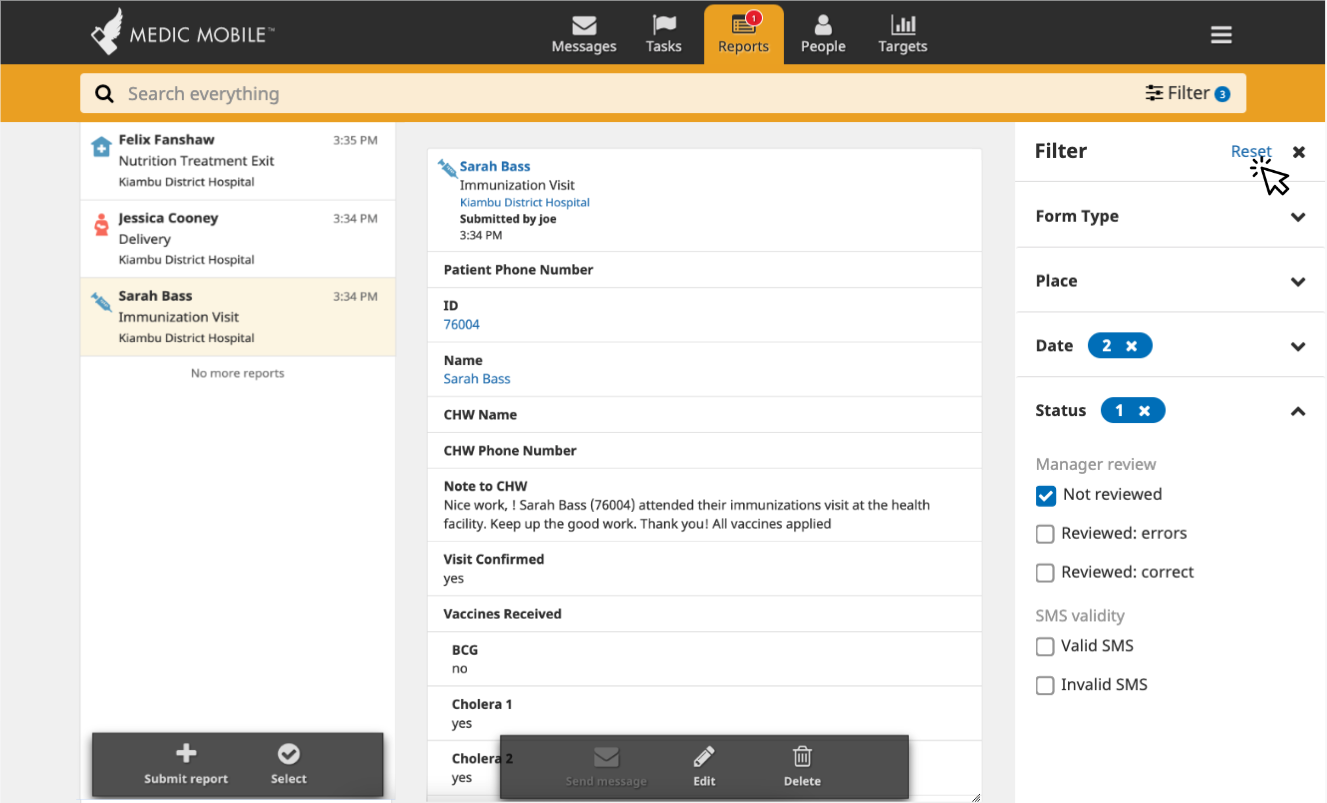
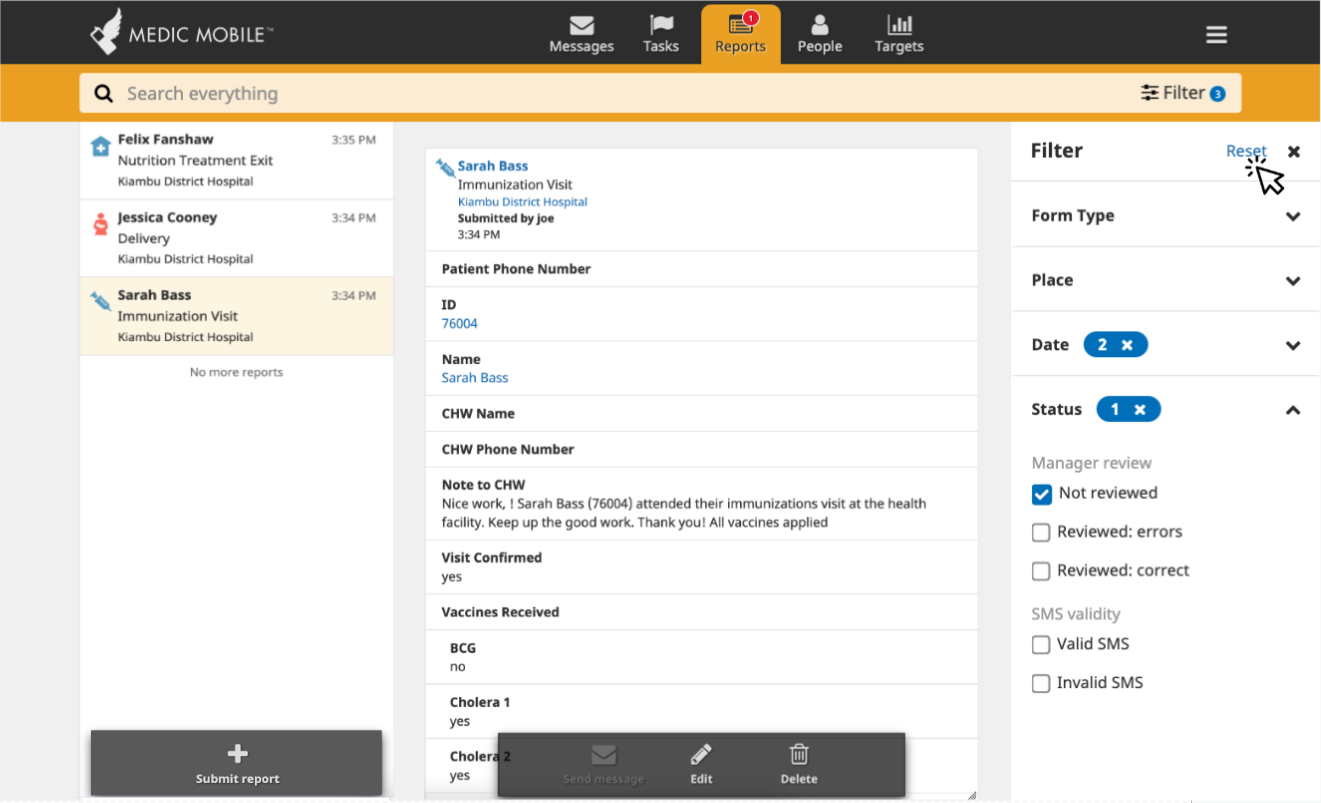
deploy: medic/cht-docs@d5cd6b67b7d5a14a046c0b3d362392b66ff2e4c5

diff --git a/apps/features/reports/index.html b/apps/features/reports/index.html
@@ -225,8 +225,8 @@
 <label for=m-contributedocsstyle-guide-check><a href=/contribute/docs/style-guide/ title="Documentation Style Guide" class="align-left pl-0 td-sidebar-link td-sidebar-link__page" id=m-contributedocsstyle-guide><span>Style Guide</span></a></label></li></ul></li><li class="td-sidebar-nav__section-title td-sidebar-nav__section without-child" id=m-contributecode-of-conduct-li><input type=checkbox id=m-contributecode-of-conduct-check>
 <label for=m-contributecode-of-conduct-check><a href=/contribute/code-of-conduct/ class="align-left pl-0 td-sidebar-link td-sidebar-link__page" id=m-contributecode-of-conduct><span>Code of Conduct</span></a></label></li></ul></li><li class="td-sidebar-nav__section-title td-sidebar-nav__section without-child" id=m-glossary-li><input type=checkbox id=m-glossary-check>
 <label for=m-glossary-check><a href=/glossary/ title="Glossary and Definitions" class="align-left pl-0 td-sidebar-link td-sidebar-link__page" id=m-glossary><span>Glossary</span></a></label></li></ul></li></ul></nav></div></aside><aside class="d-none d-xl-block col-xl-2 td-sidebar-toc d-print-none"><div class="td-page-meta ml-2 pb-1 pt-2 mb-0"><a href=https://github.com/medic/cht-docs/edit/main/content/en/apps/features/reports/_index.md class=td-page-meta--edit target=_blank rel=noopener><i class="fa fa-edit fa-fw"></i> Edit this page</a>
-<a href="https://github.com/medic/cht-docs/issues/new?title=Improve+%27Reports%27&labels=enhancement&body=Page:+/apps/features/reports/%0aVersion:+2022-09-15%2009:07:15%20+0700%20+0700%0a---" class=td-page-meta--issue target=_blank rel=noopener><i class="fab fa-github fa-fw"></i> Create documentation issue</a>
-<a href=https://github.com/medic/cht-core/issues/new class=td-page-meta--project-issue target=_blank rel=noopener><i class="fas fa-tasks fa-fw"></i> Create project issue</a></div><div class=td-toc><nav id=TableOfContents><ul><li><a href=#main-list>Main List</a></li><li><a href=#filters--search>Filters & Search</a></li><li><a href=#action-buttons>Action Buttons</a></li><li><a href=#detail-pages>Detail Pages</a></li><li><a href=#defining-forms>Defining Forms</a></li></ul></nav></div></aside><main class="col-12 col-md-9 col-xl-8 pl-md-5" role=main><nav aria-label=breadcrumb class=td-breadcrumbs><ol class=breadcrumb><li class=breadcrumb-item><a href=https://docs.communityhealthtoolkit.org/apps/>CHT Applications</a></li><li class=breadcrumb-item><a href=https://docs.communityhealthtoolkit.org/apps/features/>Features</a></li><li class="breadcrumb-item active" aria-current=page><a href=https://docs.communityhealthtoolkit.org/apps/features/reports/ aria-disabled=true class="btn-link disabled">Reports</a></li></ol></nav><div class=td-content><h1>Reports</h1><div class=lead>Reports for Data & Report Management</div><header class=article-meta></header><p>The Reports tab is where you can access submitted data. Depending on how often you anticipate a user needing to access this tab, you can configure it to show in the main tabs list (preferable for admin users) or in the secondary hamburger menu (preferable for CHW users).</p><p>The permissions set for your role and your placement in the hierarchy will determine which reports you’re able to see on this tab. As a rule, you can only view reports submitted by yourself or those below you in the <a href=https://docs.communityhealthtoolkit.org/apps/concepts/hierarchy/>hierarchy</a>. Therefore, CHWs will only see reports that they submitted on this tab, while supervisors will see reports that they submitted as well as those submitted by their CHWs. Advanced configuration options are available for a specific off-line user role to manage what <a href=https://docs.communityhealthtoolkit.org/apps/guides/performance/replication/#report-depth>level of report data</a> is copied to their device.</p><figure class="left col-3 col-lg-3"><a href=reports-mobile.png><img src=/apps/features/reports/reports-mobile.png></a></figure><figure class="left col-9 col-lg-9"><a href=reports-desktop.png><img src=/apps/features/reports/reports-desktop.png></a></figure><h2 id=main-list>Main List</h2><figure class="right col-6 col-lg-3"><a href=reports-mobile.png><img src=/apps/features/reports/reports-mobile.png></a></figure><p>The first line of bold text is the name of the person whom the report is about. The second line of text is the name of the report, and the third line of text is the hierarchy of place to which that person belongs. In the upper right corner, a timestamp displays when the report was submitted. Reports are sorted by submission date, with the most recent reports at the top. If a report is unread, the timestamp will be bold blue and there will be a horizontal blue line above it.</p><p>Apps built with the Core Framework have a “review” feature that allows managers to indicate whether a report has been reviewed and if it contains errors. If a manager has marked a report as “correct,” a green checkmark will show below the timestamp. If a report is marked as “has errors,” a red ‘X’ will show. This same icon is used for invalid SMS messages.</p><br clear=all><h2 id=filters--search>Filters & Search</h2><p>The toolbar at the top of the page includes filters and search to help users narrow down the list or search for and find a specific report. These filters are configurable and could include:</p><ul><li><strong>Report Types</strong> (e.g. pregnancy registration, visits, delivery report)</li><li><strong>Places</strong> (e.g. districts, health centers or CHW areas)</li><li><strong>Date of Submission</strong></li><li><strong>Status</strong> (e.g. not reviewed, has errors, correct, valid SMS, invalid SMS)</li></ul><p>Using the search box, you can search for reports by patient name, phone number, ID number and more. To reset the filters and view the full list of forms, click on &ldquo;Reset&rdquo; located in the filter sidebar.</p><figure class="left col-3 col-lg-3"><a href=reports-search.png><img src=/apps/features/reports/reports-search.png></a></figure><figure class="left col-9 col-lg-9"><a href=reports-search-reset.png><img src=/apps/features/reports/reports-search-reset.png></a></figure><br clear=all><div class="alert alert-primary" role=alert><h4 class=alert-heading>Note</h4>A new user experience for Filter and Search was introduced in v3.17. The previous version can be re-enabled for users by adding the <a href=https://docs.communityhealthtoolkit.org/apps/reference/app-settings/user-permissions/>permission</a> <code>can_view_old_filter_and_search</code> to the user’s role; however, the old version should be considered deprecated and will be completely removed in a future release. See <a href=https://docs.communityhealthtoolkit.org/apps/guides/updates/feature-flags/>Feature Flags</a> documentation for more info</div><br clear=all><h2 id=action-buttons>Action Buttons</h2><figure class="right col-6 col-lg-3"><a href=reports-bulk.png><img src=/apps/features/reports/reports-bulk.png></a></figure><p>The action buttons at the bottom of the screen are configurable. Options include adding or completing a care guide, bulk select & export.</p><p>Clicking the “+” button opens a menu of forms a user can choose to complete. “Bulk Select,” represented by a checkmark icon within a circle, allows you to bulk select and delete multiple reports at a time.</p><p><strong>Please Note</strong>: Bulk delete cannot be undone. If in doubt, do not delete! You can restrict a user’s access to this feature in the permissions for their role.</p><p>Clicking on the “Export” button will download a CSV file with all of the data from the reports.</p><br clear=all><h2 id=detail-pages>Detail Pages</h2><figure class="right col-6 col-lg-3"><a href=reports-detail.png><img src=/apps/features/reports/reports-detail.png></a></figure><p>You can click on any report to view a report detail page. Here you&rsquo;ll find the name and phone number of the user who submitted the report as well as responses to the questions within it. If the report initiated a schedule of SMS messages, you will see the messages queued to send.</p><p>The buttons at the bottom are configurable. The ones you see will depend on your user role, permissions, and hierarchy.</p><ul><li><strong>Send a Message</strong>: Opens the Messages page to send a message to the person who submitted the report</li><li><strong>Review</strong>: Mark as “correct” or “has errors”</li><li><strong>Edit</strong>: Opens the form to edit it</li><li><strong>Delete</strong>: Deletes a report ( cannot be undone)</li></ul><br clear=all><h2 id=defining-forms>Defining Forms</h2><p>The reports shown in your app are the completed and submitted <em>forms</em>. These forms must be defined and included with the application. There are two types of form definitions for reports:</p><ul><li><strong>App forms</strong>: actions within the app, such as a completed task, or an action on a contact&rsquo;s profile or reports tab. App forms are defined as <a href=https://docs.communityhealthtoolkit.org/apps/reference/forms/app/>XForms</a>.</li><li><strong>JSON forms</strong>: data coming from external channels such as SMS, or via interoperability with other tools. JSON forms are defined using a <a href=https://docs.communityhealthtoolkit.org/apps/reference/app-settings/forms/>JavaScript Object Notation schema</a>.</li></ul><div class=section-index></div><h2 id=related-content>Related Content</h2><div class=section-index><hr class=panel-line><div class=entry><h5><a href=/apps/reference/app-settings/patient_reports/>CHT Applications >
+<a href="https://github.com/medic/cht-docs/issues/new?title=Improve+%27Reports%27&labels=enhancement&body=Page:+/apps/features/reports/%0aVersion:+2022-12-02%2013:52:01%20+0700%20+0700%0a---" class=td-page-meta--issue target=_blank rel=noopener><i class="fab fa-github fa-fw"></i> Create documentation issue</a>
+<a href=https://github.com/medic/cht-core/issues/new class=td-page-meta--project-issue target=_blank rel=noopener><i class="fas fa-tasks fa-fw"></i> Create project issue</a></div><div class=td-toc><nav id=TableOfContents><ul><li><a href=#main-list>Main List</a></li><li><a href=#filters--search>Filters & Search</a></li><li><a href=#action-buttons>Action Buttons</a></li><li><a href=#bulk-delete-reports>Bulk Delete Reports</a></li><li><a href=#detail-pages>Detail Pages</a></li><li><a href=#defining-forms>Defining Forms</a></li></ul></nav></div></aside><main class="col-12 col-md-9 col-xl-8 pl-md-5" role=main><nav aria-label=breadcrumb class=td-breadcrumbs><ol class=breadcrumb><li class=breadcrumb-item><a href=https://docs.communityhealthtoolkit.org/apps/>CHT Applications</a></li><li class=breadcrumb-item><a href=https://docs.communityhealthtoolkit.org/apps/features/>Features</a></li><li class="breadcrumb-item active" aria-current=page><a href=https://docs.communityhealthtoolkit.org/apps/features/reports/ aria-disabled=true class="btn-link disabled">Reports</a></li></ol></nav><div class=td-content><h1>Reports</h1><div class=lead>Reports for Data & Report Management</div><header class=article-meta></header><p>The Reports tab is where you can access submitted data. Depending on how often you anticipate a user needing to access this tab, you can configure it to show in the main tabs list (preferable for admin users) or in the secondary hamburger menu (preferable for CHW users).</p><p>The permissions set for your role and your placement in the hierarchy will determine which reports you’re able to see on this tab. As a rule, you can only view reports submitted by yourself or those below you in the <a href=https://docs.communityhealthtoolkit.org/apps/concepts/hierarchy/>hierarchy</a>. Therefore, CHWs will only see reports that they submitted on this tab, while supervisors will see reports that they submitted as well as those submitted by their CHWs. Advanced configuration options are available for a specific off-line user role to manage what <a href=https://docs.communityhealthtoolkit.org/apps/guides/performance/replication/#report-depth>level of report data</a> is copied to their device.</p><figure class="left col-3 col-lg-3"><a href=reports-mobile.png><img src=/apps/features/reports/reports-mobile.png></a></figure><figure class="left col-9 col-lg-9"><a href=reports-desktop.png><img src=/apps/features/reports/reports-desktop.png></a></figure><h2 id=main-list>Main List</h2><figure class="right col-6 col-lg-3"><a href=reports-mobile.png><img src=/apps/features/reports/reports-mobile.png></a></figure><p>The first line of bold text is the name of the person whom the report is about. The second line of text is the name of the report, and the third line of text is the hierarchy of place to which that person belongs. In the upper right corner, a timestamp displays when the report was submitted. Reports are sorted by submission date, with the most recent reports at the top. If a report is unread, the timestamp will be bold blue and there will be a horizontal blue line above it.</p><p>Apps built with the Core Framework have a “review” feature that allows managers to indicate whether a report has been reviewed and if it contains errors. If a manager has marked a report as “correct,” a green checkmark will show below the timestamp. If a report is marked as “has errors,” a red ‘X’ will show. This same icon is used for invalid SMS messages.</p><br clear=all><h2 id=filters--search>Filters & Search</h2><p>The toolbar at the top of the page includes filters and search to help users narrow down the list or search for and find a specific report. These filters are configurable and could include:</p><ul><li><strong>Report Types</strong> (e.g. pregnancy registration, visits, delivery report)</li><li><strong>Places</strong> (e.g. districts, health centers or CHW areas)</li><li><strong>Date of Submission</strong></li><li><strong>Status</strong> (e.g. not reviewed, has errors, correct, valid SMS, invalid SMS)</li></ul><p>Using the search box, you can search for reports by patient name, phone number, ID number and more. To reset the filters and view the full list of forms, click on &ldquo;Reset&rdquo; located in the filter sidebar.</p><figure class="left col-3 col-lg-3"><a href=reports-search.png><img src=/apps/features/reports/reports-search.png></a></figure><figure class="left col-9 col-lg-9"><a href=reports-search-reset.png><img src=/apps/features/reports/reports-search-reset.png></a></figure><br clear=all><div class="alert alert-primary" role=alert><h4 class=alert-heading>Note</h4>A new user experience for Filter and Search was introduced in v3.17. The previous version can be re-enabled for users by adding the <a href=https://docs.communityhealthtoolkit.org/apps/reference/app-settings/user-permissions/>permission</a> <code>can_view_old_filter_and_search</code> to the user’s role; however, the old version should be considered deprecated and will be completely removed in a future release. See <a href=https://docs.communityhealthtoolkit.org/apps/guides/updates/feature-flags/>Feature Flags</a> documentation for more info</div><br clear=all><h2 id=action-buttons>Action Buttons</h2><p>The action buttons at the bottom of the screen are configurable using <a href=https://docs.communityhealthtoolkit.org/apps/reference/app-settings/user-permissions/>permissions</a>. Options include submit, edit, delete, review and export reports.</p><p>Clicking on the “Export” button will download a CSV file with all the data from the reports. And clicking the “+ Submit report” button opens a menu of forms a user can choose to complete.</p><figure class="left col-9 col-lg-9"><a href=reports-bulk.png><img src=/apps/features/reports/reports-desktop.png></a></figure><br clear=all><h2 id=bulk-delete-reports>Bulk Delete Reports</h2><p>Allows the user to select multiple reports and delete them. <strong>Please Note</strong>: This action cannot be undone. If in doubt, do not delete! You can restrict a user’s access to this feature by disabling the <a href=https://docs.communityhealthtoolkit.org/apps/reference/app-settings/user-permissions/>permission</a> <code>can_bulk_delete_reports</code>.</p><figure class="left col-3 col-lg-3"><a href=reports-bulk-mobile.png><img src=/apps/features/reports/reports-bulk-mobile.png></a></figure><figure class="left col-9 col-lg-9"><a href=reports-bulk-desktop.png><img src=/apps/features/reports/reports-bulk-desktop.png></a></figure><br clear=all><h2 id=detail-pages>Detail Pages</h2><figure class="right col-6 col-lg-3"><a href=reports-detail.png><img src=/apps/features/reports/reports-detail.png></a></figure><p>You can click on any report to view a report detail page. Here you&rsquo;ll find the name and phone number of the user who submitted the report as well as responses to the questions within it. If the report initiated a schedule of SMS messages, you will see the messages queued to send.</p><p>The buttons at the bottom are configurable. The ones you see will depend on your user role, permissions, and hierarchy.</p><ul><li><strong>Send a Message</strong>: Opens the Messages page to send a message to the person who submitted the report</li><li><strong>Review</strong>: Mark as “correct” or “has errors”</li><li><strong>Edit</strong>: Opens the form to edit it</li><li><strong>Delete</strong>: Deletes a report ( cannot be undone)</li></ul><br clear=all><h2 id=defining-forms>Defining Forms</h2><p>The reports shown in your app are the completed and submitted <em>forms</em>. These forms must be defined and included with the application. There are two types of form definitions for reports:</p><ul><li><strong>App forms</strong>: actions within the app, such as a completed task, or an action on a contact&rsquo;s profile or reports tab. App forms are defined as <a href=https://docs.communityhealthtoolkit.org/apps/reference/forms/app/>XForms</a>.</li><li><strong>JSON forms</strong>: data coming from external channels such as SMS, or via interoperability with other tools. JSON forms are defined using a <a href=https://docs.communityhealthtoolkit.org/apps/reference/app-settings/forms/>JavaScript Object Notation schema</a>.</li></ul><div class=section-index></div><h2 id=related-content>Related Content</h2><div class=section-index><hr class=panel-line><div class=entry><h5><a href=/apps/reference/app-settings/patient_reports/>CHT Applications >
 Reference >
 app_settings.json >
 .patient_reports</a></h5><p class=one-liner>Patient Reports: Defining SMS workflows with schedules, registration, and patient reports.</p></div><div class=entry><h5><a href=/apps/guides/data/invalid-reports/>CHT Applications >
@@ -236,8 +236,8 @@ Invalid Reports</a></h5><p class=one-liner>How to revalidate an invalid report</
 Quick Guides >
 Forms >
 Report Titles</a></h5><p class=one-liner>Customizing the title shown in the Reports list</p></div></div><style>.feedback--answer{display:inline-block}.feedback--answer-no{margin-left:1em}.feedback--response{display:none;margin-top:1em}.feedback--response__visible{display:block}</style><div class=d-print-none><h2 class=feedback--title>Feedback</h2><p class=feedback--question>Was this page helpful?</p><button class="btn btn-primary mb-4 feedback--answer feedback--answer-yes">Yes</button>
-<button class="btn btn-primary mb-4 feedback--answer feedback--answer-no">No</button><p class="feedback--response feedback--response-yes">Glad to hear it! Please <a href=https://github.com/medic/cht-docs/issues/new>tell us how we can improve</a>.</p><p class="feedback--response feedback--response-no">Sorry to hear that. Please <a href=https://github.com/medic/cht-docs/issues/new>tell us how we can improve</a>.</p></div><script>const yesButton=document.querySelector(".feedback--answer-yes"),noButton=document.querySelector(".feedback--answer-no"),yesResponse=document.querySelector(".feedback--response-yes"),noResponse=document.querySelector(".feedback--response-no"),disableButtons=()=>{yesButton.disabled=!0,noButton.disabled=!0},sendFeedback=e=>{if(typeof ga!="function")return;const t={command:"send",hitType:"event",category:"Helpful",action:"click",label:window.location.pathname,value:e};ga(t.command,t.hitType,t.category,t.action,t.label,t.value)};yesButton.addEventListener("click",()=>{yesResponse.classList.add("feedback--response__visible"),disableButtons(),sendFeedback(1)}),noButton.addEventListener("click",()=>{noResponse.classList.add("feedback--response__visible"),disableButtons(),sendFeedback(0)})</script><br><div class="text-muted mt-5 pt-3 border-top">Last modified 15.09.2022: <a href=https://github.com/medic/cht-docs/commit/f71ac394fae3cb23f1b3ae0ca596a49f0d26e490>7746 - Search bar redesign (#776) (f71ac39)</a></div><div class="d-xl-none d-print-none meta-links"><div class="td-page-meta ml-2 pb-1 pt-2 mb-0"><a href=https://github.com/medic/cht-docs/edit/main/content/en/apps/features/reports/_index.md class=td-page-meta--edit target=_blank rel=noopener><i class="fa fa-edit fa-fw"></i> Edit this page</a>
-<a href="https://github.com/medic/cht-docs/issues/new?title=Improve+%27Reports%27&labels=enhancement&body=Page:+/apps/features/reports/%0aVersion:+2022-09-15%2009:07:15%20+0700%20+0700%0a---" class=td-page-meta--issue target=_blank rel=noopener><i class="fab fa-github fa-fw"></i> Create documentation issue</a>
+<button class="btn btn-primary mb-4 feedback--answer feedback--answer-no">No</button><p class="feedback--response feedback--response-yes">Glad to hear it! Please <a href=https://github.com/medic/cht-docs/issues/new>tell us how we can improve</a>.</p><p class="feedback--response feedback--response-no">Sorry to hear that. Please <a href=https://github.com/medic/cht-docs/issues/new>tell us how we can improve</a>.</p></div><script>const yesButton=document.querySelector(".feedback--answer-yes"),noButton=document.querySelector(".feedback--answer-no"),yesResponse=document.querySelector(".feedback--response-yes"),noResponse=document.querySelector(".feedback--response-no"),disableButtons=()=>{yesButton.disabled=!0,noButton.disabled=!0},sendFeedback=e=>{if(typeof ga!="function")return;const t={command:"send",hitType:"event",category:"Helpful",action:"click",label:window.location.pathname,value:e};ga(t.command,t.hitType,t.category,t.action,t.label,t.value)};yesButton.addEventListener("click",()=>{yesResponse.classList.add("feedback--response__visible"),disableButtons(),sendFeedback(1)}),noButton.addEventListener("click",()=>{noResponse.classList.add("feedback--response__visible"),disableButtons(),sendFeedback(0)})</script><br><div class="text-muted mt-5 pt-3 border-top">Last modified 02.12.2022: <a href=https://github.com/medic/cht-docs/commit/d5cd6b67b7d5a14a046c0b3d362392b66ff2e4c5>Bulk delete redesign (#815) (d5cd6b6)</a></div><div class="d-xl-none d-print-none meta-links"><div class="td-page-meta ml-2 pb-1 pt-2 mb-0"><a href=https://github.com/medic/cht-docs/edit/main/content/en/apps/features/reports/_index.md class=td-page-meta--edit target=_blank rel=noopener><i class="fa fa-edit fa-fw"></i> Edit this page</a>
+<a href="https://github.com/medic/cht-docs/issues/new?title=Improve+%27Reports%27&labels=enhancement&body=Page:+/apps/features/reports/%0aVersion:+2022-12-02%2013:52:01%20+0700%20+0700%0a---" class=td-page-meta--issue target=_blank rel=noopener><i class="fab fa-github fa-fw"></i> Create documentation issue</a>
 <a href=https://github.com/medic/cht-core/issues/new class=td-page-meta--project-issue target=_blank rel=noopener><i class="fas fa-tasks fa-fw"></i> Create project issue</a></div></div></div></main></div></div><footer class="bg-dark py-5 row d-print-none"><div class="container-fluid mx-sm-5"><div class=row><div class="col-6 col-sm-4 text-xs-center order-sm-2"></div><div class="col-6 col-sm-4 text-right text-xs-center order-sm-3"></div><div class="col-12 col-sm-4 text-center py-2 order-sm-2"><small class=text-white>&copy; 2022 CHT All Rights Reserved</small>
 <small class=ml-1><a href="https://docs.google.com/document/d/1MaI1rgYMNyCZF2eEjBuvnBDoCYHDKlx4k_N5pkDiWu8/edit?usp=sharing" target=_blank rel=noopener>Privacy Policy</a></small></div></div></div></footer></div><script src=https://cdn.jsdelivr.net/npm/popper.js@1.16.1/dist/umd/popper.min.js integrity=sha384-9/reFTGAW83EW2RDu2S0VKaIzap3H66lZH81PoYlFhbGU+6BZp6G7niu735Sk7lN crossorigin=anonymous></script>
 <script src=https://cdn.jsdelivr.net/npm/bootstrap@4.6.1/dist/js/bootstrap.min.js integrity="sha512-UR25UO94eTnCVwjbXozyeVd6ZqpaAE9naiEUBK/A+QDbfSTQFhPGj5lOR6d8tsgbBk84Ggb5A3EkjsOgPRPcKA==" crossorigin=anonymous></script>
